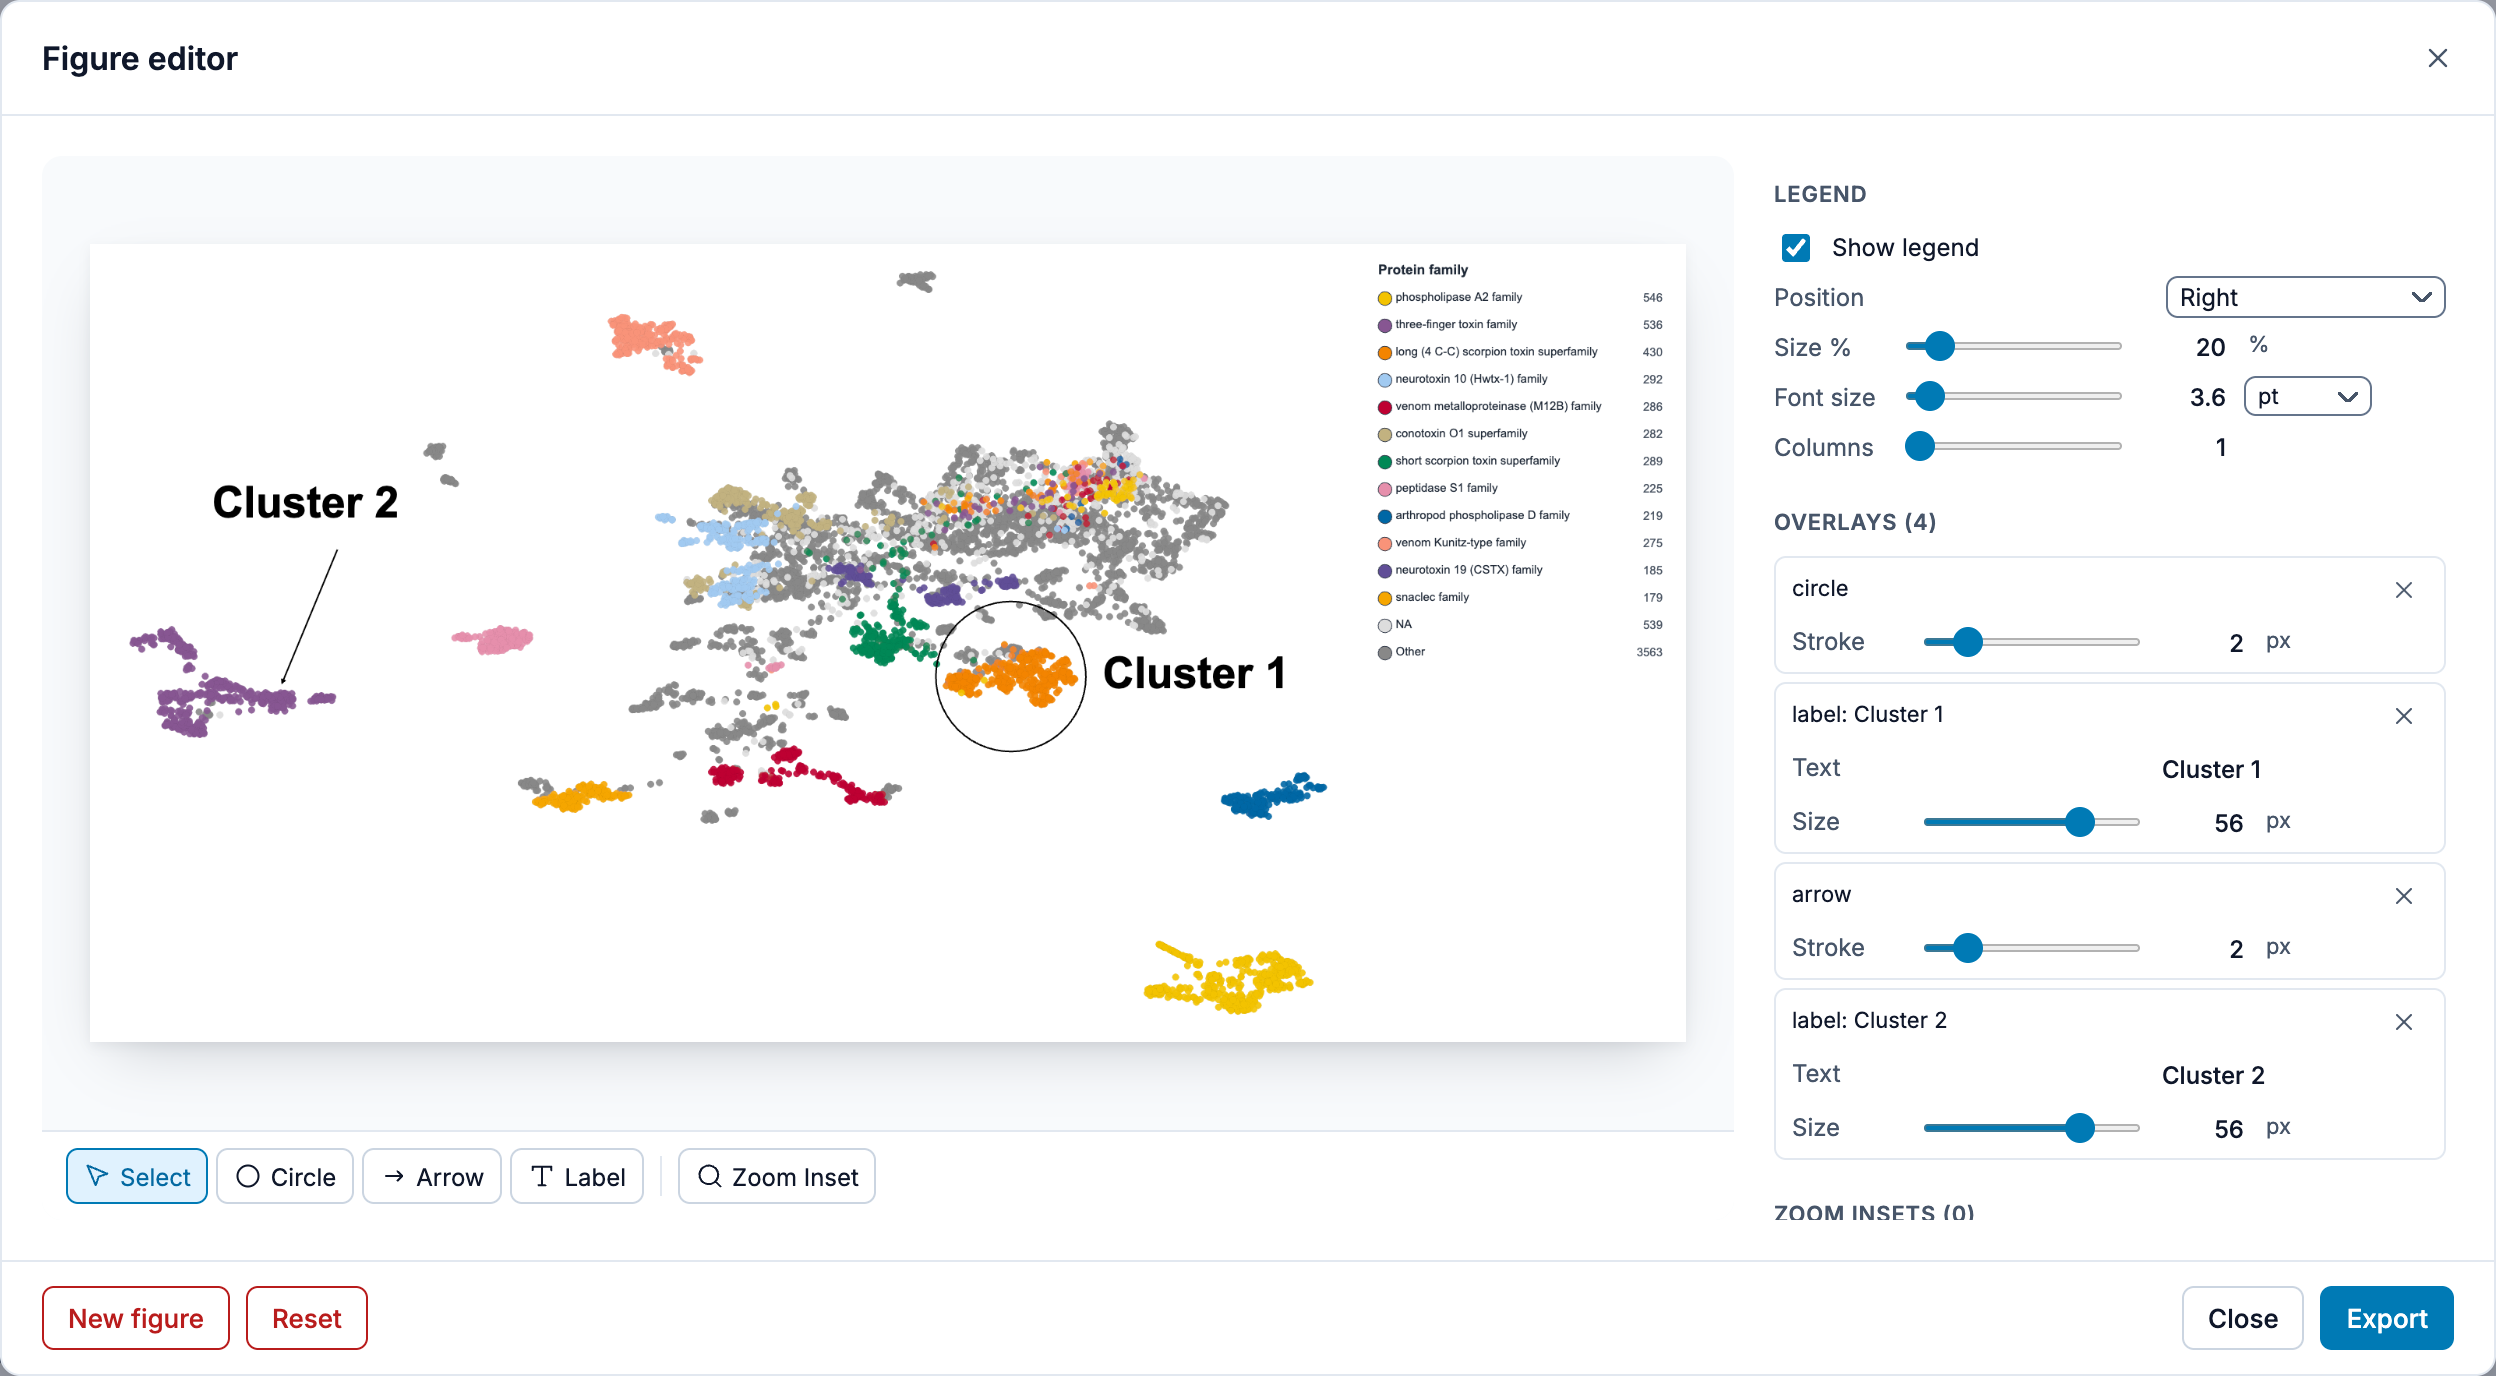
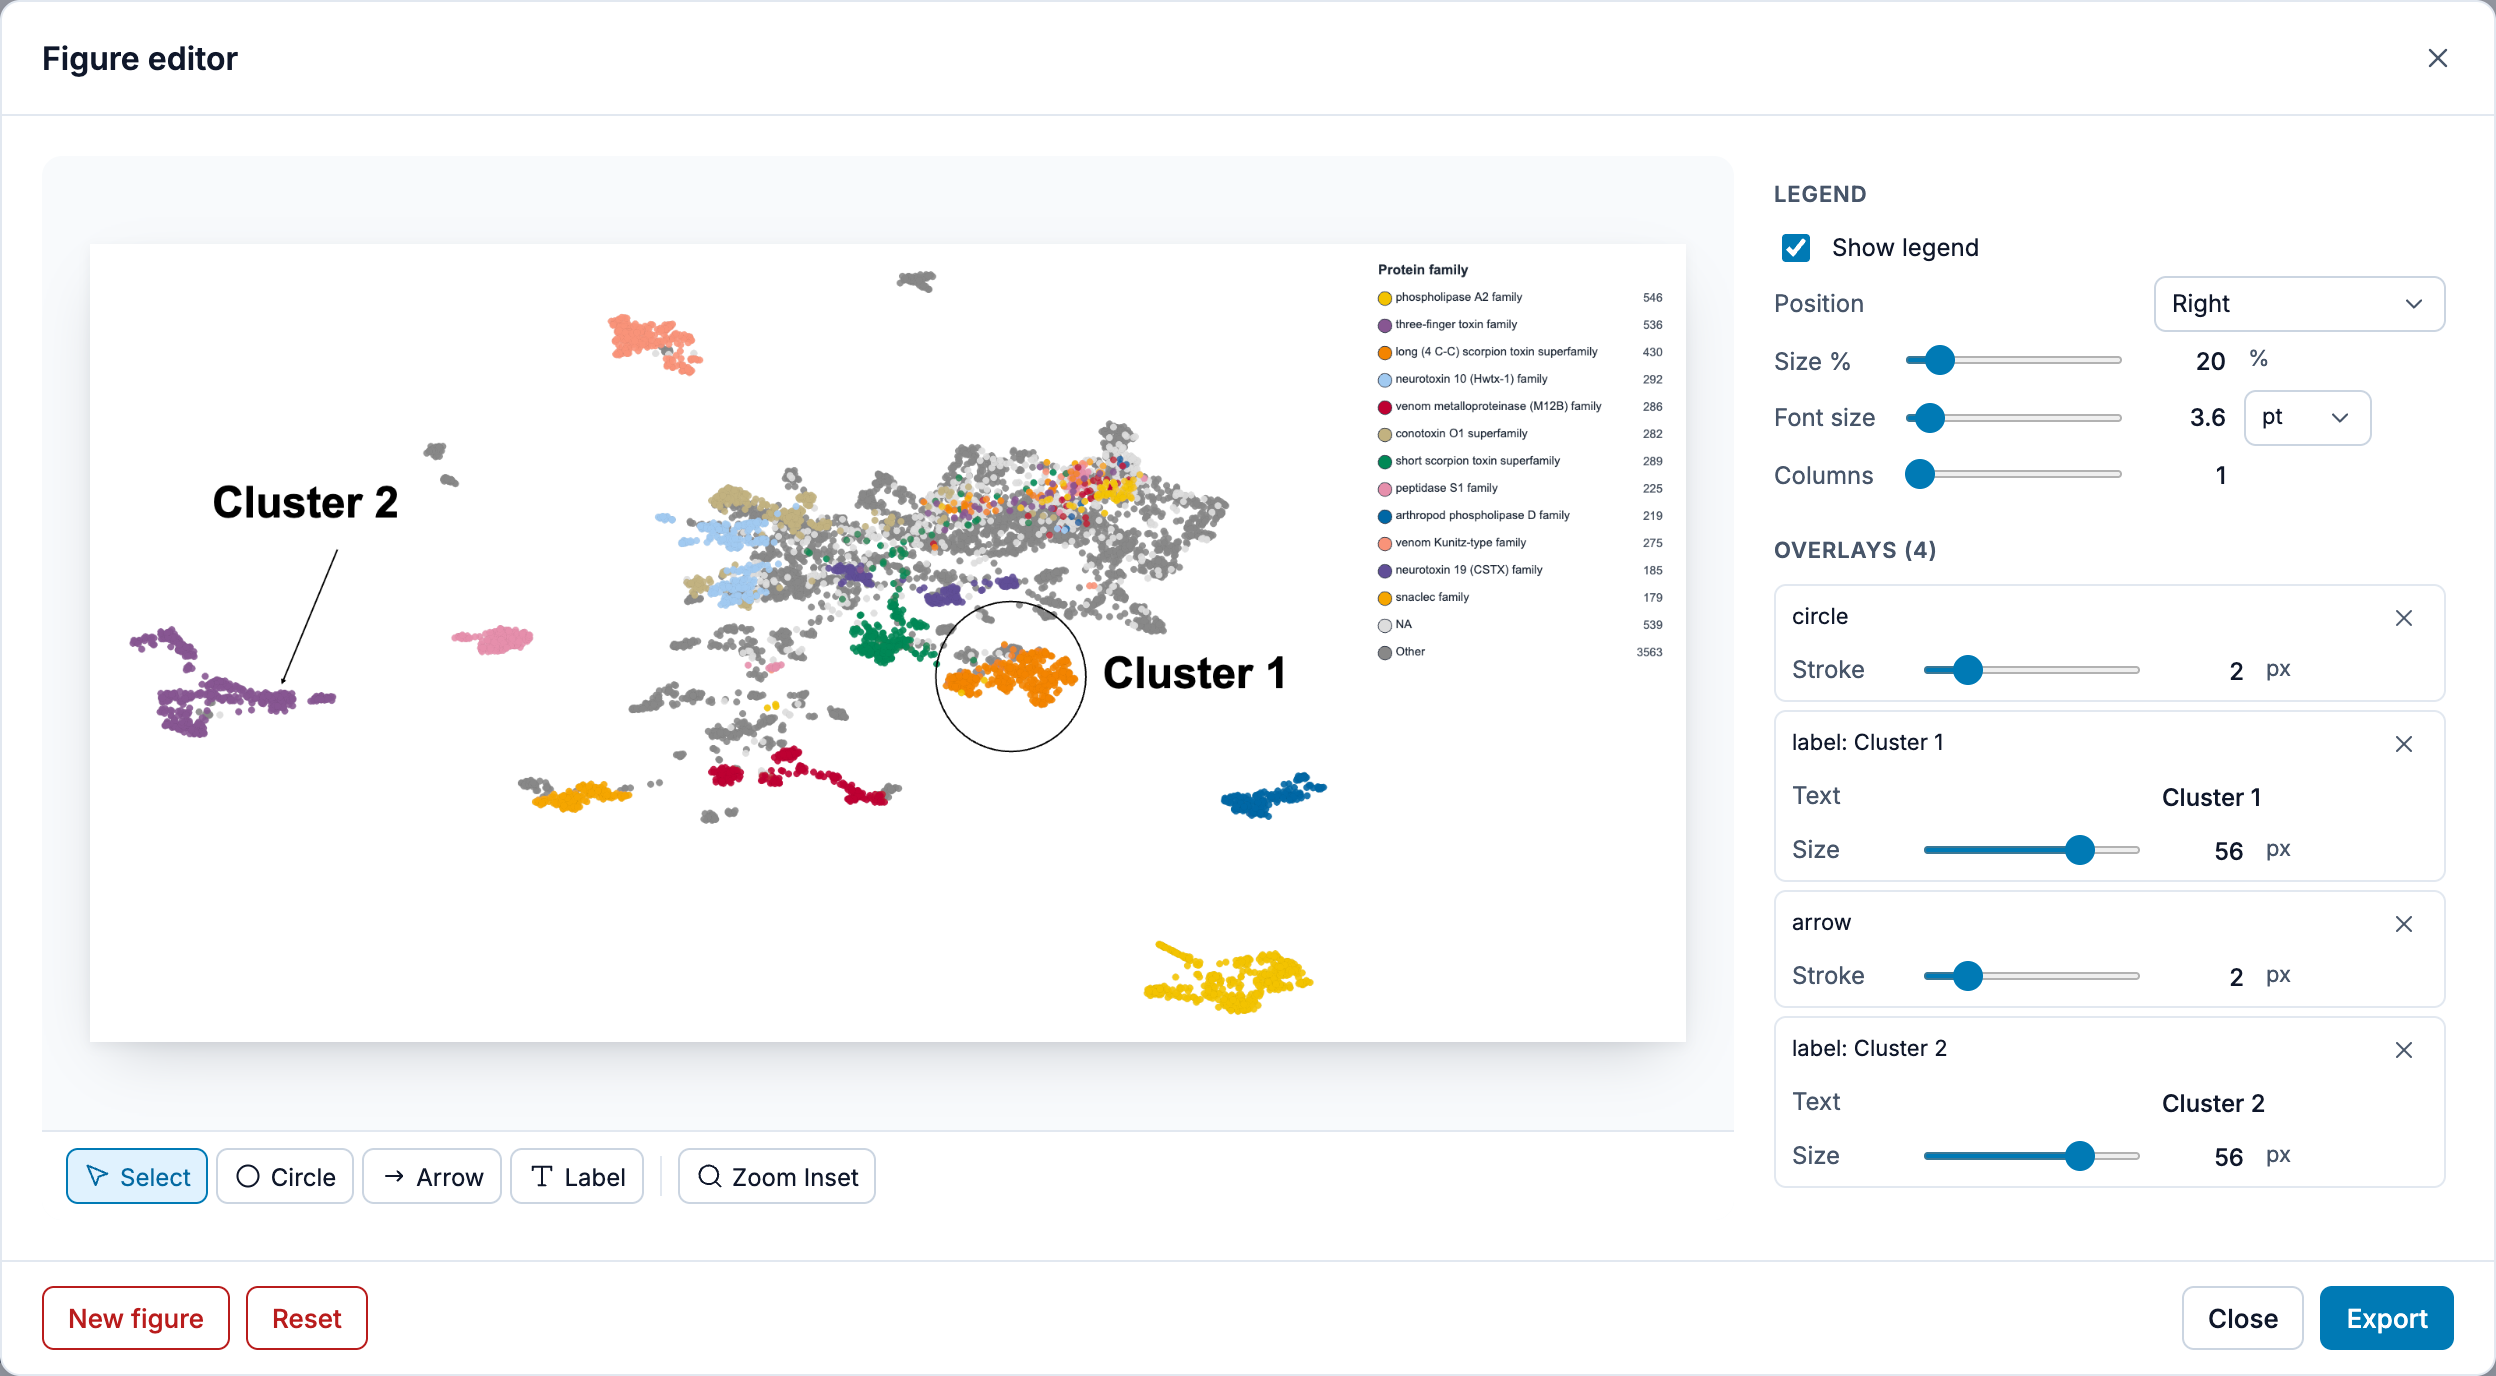
refactor(figure-editor): draw its selects with the kit's ps-select
The figure editor's four native selects (unit, legend font unit, legend
position, background) drew the kit chevron by hand with two gradients and
carried their own option colours and touch size. They are ps-select
size="sm" now, which brings all three, so that CSS is gone. Values,
change events and the 40 px touch targets are unchanged; the selects are
the kit's sm height, so the figure editor's docs images are recaptured.

diff --git a/packages/core/src/components/publish/publish-modal.styles.ts b/packages/core/src/components/publish/publish-modal.styles.ts
@@ -1,6 +1,5 @@
 import { css, unsafeCSS } from 'lit';
 import { LANDSCAPE_PHONE_MEDIA, PHONE_MEDIA } from '../../utils/breakpoints';
-import { selectOptionStyles } from '../kit/field.styles';
 import { focusRing, kitHost, reducedMotion } from '../kit/kit-shared.styles';
 
 /**
@@ -12,8 +11,6 @@ export const publishModalStyles = [
   kitHost,
   focusRing,
   reducedMotion,
-  // The editor's native selects: their lists stay readable in either theme.
-  selectOptionStyles,
   css`
     /* ─── Layout ────────────────────────────────────────────── */
     .publish-container {
@@ -266,41 +263,9 @@ export const publishModalStyles = [
       font-size: var(--ps-text-xs);
     }
 
-    /*
-     * Drawn by the page, not the platform: a native arrow differs between macOS, Windows and
-     * headless Chrome (where the docs are captured) and ignores the theme. The arrow is the kit
-     * select's chevron, two strokes in the muted text colour, each a diagonal band across one of
-     * two side-by-side squares.
-     */
+    /* The kit select (ps-select size="sm"); its text at the settings' size. */
     .publish-select {
-      appearance: none;
-      padding: var(--ps-space-0-5) calc(var(--ps-space-1-5) + 14px) var(--ps-space-0-5)
-        var(--ps-space-1-5);
-      border: 1px solid var(--ps-border-control);
-      border-radius: var(--ps-radius);
-      background-color: var(--ps-surface);
-      background-image:
-        linear-gradient(
-          45deg,
-          transparent calc(50% - 0.75px),
-          var(--ps-text-muted) calc(50% - 0.75px) calc(50% + 0.75px),
-          transparent calc(50% + 0.75px)
-        ),
-        linear-gradient(
-          -45deg,
-          transparent calc(50% - 0.75px),
-          var(--ps-text-muted) calc(50% - 0.75px) calc(50% + 0.75px),
-          transparent calc(50% + 0.75px)
-        );
-      background-position:
-        right calc(var(--ps-space-1-5) + 5px) center,
-        right var(--ps-space-1-5) center;
-      background-size: 5px 5px;
-      background-repeat: no-repeat;
-      color: var(--ps-text);
-      font-family: inherit;
       font-size: var(--ps-text-sm);
-      cursor: pointer;
     }
 
     .publish-checkbox-label {
@@ -594,12 +559,11 @@ export const publishModalStyles = [
       font-size: var(--ps-text-sm);
     }
 
-    /* Touch: the tools, presets and format toggles, the number fields and the selects are 40 px
-       targets. */
+    /* Touch: the tools, presets and format toggles and the number fields are 40 px targets, as
+       the kit selects are on their own. */
     @media (pointer: coarse) {
       .publish-toggle-btn,
-      .publish-row-input,
-      .publish-select {
+      .publish-row-input {
         min-height: var(--ps-touch-target);
       }
 

diff --git a/packages/core/src/components/publish/sections/legend-section.ts b/packages/core/src/components/publish/sections/legend-section.ts
@@ -1,6 +1,21 @@
 import { html, nothing, type TemplateResult } from 'lit';
 import { live } from 'lit/directives/live.js';
+import '../../kit/select';
+import type { PsSelect, SelectOption } from '../../kit/select';
 import type { LegendLayout, LegendPosition } from '../publish-state';
+
+const FONT_UNIT_OPTIONS: SelectOption[] = [
+  { value: 'pt', label: 'pt' },
+  { value: 'px', label: 'px' },
+];
+
+const POSITION_OPTIONS: SelectOption[] = [
+  { value: 'right', label: 'Right' },
+  { value: 'left', label: 'Left' },
+  { value: 'top', label: 'Top' },
+  { value: 'bottom', label: 'Bottom' },
+  { value: 'free', label: 'Free (drag to move)' },
+];
 
 interface LegendModel {
   legend: LegendLayout;
@@ -116,20 +131,19 @@ function renderFontInput(model: LegendModel, handlers: LegendHandlers) {
         .value=${live(value)}
         @change=${onChange}
       />
-      <select
+      <ps-select
         class="publish-select publish-unit-select"
+        size="sm"
         data-publish-input="legend-font-unit"
-        aria-label="Legend font unit"
+        label="Legend font unit"
+        .options=${FONT_UNIT_OPTIONS}
         .value=${unit}
         @change=${(e: Event) => {
           handlers.updateLegend({
-            fontSizeUnit: (e.target as HTMLSelectElement).value as 'pt' | 'px',
+            fontSizeUnit: (e.target as PsSelect).value as 'pt' | 'px',
           });
         }}
-      >
-        <option value="pt">pt</option>
-        <option value="px">px</option>
-      </select>
+      ></ps-select>
     </div>
   `;
 }
@@ -157,22 +171,18 @@ export function renderLegendSection(model: LegendModel, handlers: LegendHandlers
         ? html`
             <div class="publish-row">
               <label>Position</label>
-              <select
+              <ps-select
                 class="publish-select"
-                aria-label="Legend position"
+                size="sm"
+                label="Legend position"
+                .options=${POSITION_OPTIONS}
                 .value=${leg.position}
                 @change=${(e: Event) => {
                   handlers.updateLegend({
-                    position: (e.target as HTMLSelectElement).value as LegendPosition,
+                    position: (e.target as PsSelect).value as LegendPosition,
                   });
                 }}
-              >
-                <option value="right">Right</option>
-                <option value="left">Left</option>
-                <option value="top">Top</option>
-                <option value="bottom">Bottom</option>
-                <option value="free">Free (drag to move)</option>
-              </select>
+              ></ps-select>
             </div>
 
             <div class="publish-row">

diff --git a/packages/core/src/components/publish/sections/dimensions-section.ts b/packages/core/src/components/publish/sections/dimensions-section.ts
@@ -1,11 +1,18 @@
 import { html, nothing, type TemplateResult } from 'lit';
 import { live } from 'lit/directives/live.js';
 import { icon } from '../../kit/icon';
+import '../../kit/select';
+import type { PsSelect, SelectOption } from '../../kit/select';
 import '../../kit/tooltip';
 import { cmToMm, inToMm, mmToCm, mmToIn, pxToMm } from '../dimension-utils';
 import { getActivePresetMaxHeightPx, getActivePresetWidthPx } from '../publish-modal-helpers';
 import type { PublishState } from '../publish-state';
 import { MAX_EXPORT_DIMENSION } from '../../scatter-plot/webgl/renderer/device-limits';
+
+const UNIT_OPTIONS: SelectOption[] = ['px', 'mm', 'in', 'cm'].map((unit) => ({
+  value: unit,
+  label: unit,
+}));
 
 type Unit = PublishState['unit'];
 
@@ -188,20 +195,17 @@ export function renderDimensions(
             : nothing}
         </div>
         ${renderAspectLink(s.aspectLocked, widthLocked, handlers.toggleAspectLock)}
-        <select
+        <ps-select
           class="publish-select publish-unit-select"
+          size="sm"
           data-publish-input="unit"
-          aria-label="Unit"
+          label="Unit"
+          .options=${UNIT_OPTIONS}
           .value=${s.unit}
           @change=${(e: Event) => {
-            handlers.unit((e.target as HTMLSelectElement).value as Unit);
+            handlers.unit((e.target as PsSelect).value as Unit);
           }}
-        >
-          <option value="px">px</option>
-          <option value="mm">mm</option>
-          <option value="in">in</option>
-          <option value="cm">cm</option>
-        </select>
+        ></ps-select>
 
         <label class="publish-dim-label">Height</label>
         <div class="publish-dim-control">

diff --git a/packages/core/src/components/publish/sections/presets-options-section.ts b/packages/core/src/components/publish/sections/presets-options-section.ts
@@ -1,7 +1,14 @@
 import { html, type TemplateResult } from 'lit';
+import '../../kit/select';
+import type { PsSelect, SelectOption } from '../../kit/select';
 import '../../kit/tooltip';
 import { JOURNAL_PRESETS, type PresetId } from '../journal-presets';
 import type { PublishState } from '../publish-state';
+
+const BACKGROUND_OPTIONS: SelectOption[] = [
+  { value: 'white', label: 'White' },
+  { value: 'transparent', label: 'Transparent' },
+];
 
 interface PresetsModel {
   preset: PublishState['preset'];
@@ -78,19 +85,18 @@ export function renderOptions(model: OptionsModel, handlers: OptionsHandlers): T
 
       <div class="publish-row">
         <label>Background</label>
-        <select
+        <ps-select
           class="publish-select"
-          aria-label="Background"
+          size="sm"
+          label="Background"
+          .options=${BACKGROUND_OPTIONS}
           .value=${model.background}
           @change=${(e: Event) => {
             handlers.update({
-              background: (e.target as HTMLSelectElement).value as 'white' | 'transparent',
+              background: (e.target as PsSelect).value as 'white' | 'transparent',
             });
           }}
-        >
-          <option value="white">White</option>
-          <option value="transparent">Transparent</option>
-        </select>
+        ></ps-select>
       </div>
     </div>
   `;

diff --git a/packages/core/src/components/publish/publish-modal.browser.test.ts b/packages/core/src/components/publish/publish-modal.browser.test.ts
@@ -207,6 +207,21 @@ describe('protspace-publish-modal dimensions', () => {
     expect(internals._state.heightPx).toBe(max);
     expect(box(modal, 'height')).toBe(((max * 25.4) / internals._state.dpi).toFixed(1));
   });
+
+  it('draws its selects with the kit select, and a pick from its list applies', async () => {
+    const { modal, internals } = await mount();
+    expect(modal.shadowRoot!.querySelectorAll('select')).toHaveLength(0);
+    const unit = modal.shadowRoot!.querySelector<
+      HTMLElement & { updateComplete: Promise<unknown> }
+    >('ps-select[data-publish-input="unit"]')!;
+    await unit.updateComplete;
+    const list = unit.shadowRoot!.querySelector('select')!;
+    expect(list.value).toBe(internals._state.unit);
+    list.value = 'cm';
+    list.dispatchEvent(new Event('change', { bubbles: true }));
+    await (modal as HTMLElement & { updateComplete: Promise<unknown> }).updateComplete;
+    expect(internals._state.unit).toBe('cm');
+  });
 });
 
 describe('protspace-publish-modal undo', () => {

diff --git a/packages/core/src/components/publish/publish-modal.test.ts b/packages/core/src/components/publish/publish-modal.test.ts
@@ -4,7 +4,6 @@
 import { describe, it, expect, beforeAll, beforeEach, afterEach, vi } from 'vitest';
 import './publish-modal';
 import type { ProtspacePublishModal } from './publish-modal';
-import { selectOptionStyles } from '../kit/field.styles';
 import { topLayer } from '../kit/layers';
 import { publishModalStyles } from './publish-modal.styles';
 import { PUBLISH_FRAMING } from './publish-state';
@@ -582,10 +581,6 @@ describe('<protspace-publish-modal> control names', () => {
       ['Close', 'secondary'],
       ['Export', 'primary'],
     ]);
-  });
-
-  it('gives its native selects the kit’s option colours, so their lists read in dark', () => {
-    expect(publishModalStyles).toContain(selectOptionStyles);
   });
 });
 

diff --git a/apps/web/tests/workbench-theme.spec.ts b/apps/web/tests/workbench-theme.spec.ts
@@ -408,8 +408,9 @@ test.describe('exports stay light in Dark', () => {
     // A white figure covers the paper; a transparent one lets it show through.
     await expect.poll(cornerAlpha).toBe(255);
     await modal
-      .locator('select.publish-select')
+      .locator('ps-select.publish-select')
       .filter({ has: page.locator('option[value="transparent"]') })
+      .locator('select')
       .selectOption('transparent');
     await expect.poll(cornerAlpha).toBe(0);
 

diff --git a/packages/core/src/components/kit/field.styles.ts b/packages/core/src/components/kit/field.styles.ts
@@ -9,7 +9,7 @@ import { focusRing, kitHost } from './kit-shared.styles';
  * resolved for the OS's light or dark, which `color-scheme: light dark` selects. Theme tokens
  * cannot do this: they follow the page's theme, which the list may not.
  */
-export const selectOptionStyles = css`
+const selectOptionStyles = css`
   select option {
     color-scheme: light dark;
     background-color: Canvas;
